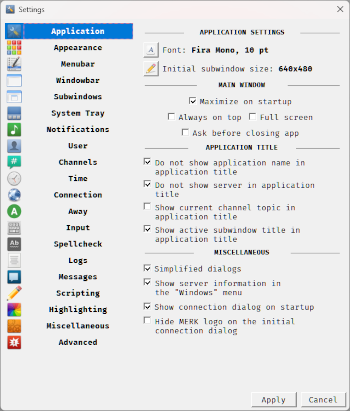
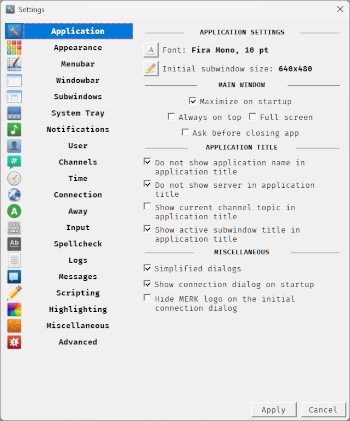
Tweaks to the settings dialog

diff --git a/README.html b/README.html
@@ -1,4 +1,4 @@
-<h1>MERK 0.050.710</h1>
+<h1>MERK 0.050.711</h1>
 
 <p><a href="https://github.com/nutjob-laboratories/merk">Official source code repository</a></p>
 <h1 id="table-of-contents">Table of contents</h1>
@@ -14,7 +14,7 @@
 <li><a href="#does-merk-need-any-help">Does MERK need any help?</a></li>
 </ul>
 <h1 id="summary">Summary</h1>
-<p><strong>MERK</strong> is a graphical <a href="https://www.gnu.org/licenses/gpl-3.0.en.html">open source</a> <a href="https://en.wikipedia.org/wiki/Internet_Relay_Chat">Internet relay chat</a> client. The current development version is <strong>0.050.710</strong>. It uses a <a href="https://en.wikipedia.org/wiki/Multiple-document_interface">multiple-document interface</a>, much like the popular Windows IRC client <a href="https://www.mirc.com/">mIRC</a>.  <strong>MERK</strong> is written in Python 3, using the <a href="https://pypi.org/project/PyQt5/">PyQt5</a> and <a href="https://twistedmatrix.com/trac/">Twisted</a> libraries, and runs on both Windows and Linux. <strong>MERK</strong> is updated frequently with new features and bugfixes.</p>
+<p><strong>MERK</strong> is a graphical <a href="https://www.gnu.org/licenses/gpl-3.0.en.html">open source</a> <a href="https://en.wikipedia.org/wiki/Internet_Relay_Chat">Internet relay chat</a> client. The current development version is <strong>0.050.711</strong>. It uses a <a href="https://en.wikipedia.org/wiki/Multiple-document_interface">multiple-document interface</a>, much like the popular Windows IRC client <a href="https://www.mirc.com/">mIRC</a>.  <strong>MERK</strong> is written in Python 3, using the <a href="https://pypi.org/project/PyQt5/">PyQt5</a> and <a href="https://twistedmatrix.com/trac/">Twisted</a> libraries, and runs on both Windows and Linux. <strong>MERK</strong> is updated frequently with new features and bugfixes.</p>
 <p><strong>MERK</strong> is still in development, but it works, and can be used for most IRC activities.</p>
 <p>Join me on the official <strong>MERK</strong> IRC channel, <strong>#merk</strong> on the Libera Chat network! Connect to  Libera in the client as one of the built-in server suggestions, or at <strong>irc.libera.chat</strong>, port <strong>6667</strong> (you can also connect via SSL on port <strong>6697</strong>). Honestly, I work a lot, so I&#39;m almost always idle, but I pop in and chat a few times a day!</p>
 <h1 id="making-merk-portable-on-windows">Making MERK Portable on Windows</h1>

diff --git a/merk/resources/README.html b/merk/resources/README.html
@@ -1,4 +1,4 @@
-<h1>MERK 0.050.710</h1>
+<h1>MERK 0.050.711</h1>
 
 <p><a href="https://github.com/nutjob-laboratories/merk">Official source code repository</a></p>
 <h1 id="table-of-contents">Table of contents</h1>
@@ -14,7 +14,7 @@
 <li><a href="#does-merk-need-any-help">Does MERK need any help?</a></li>
 </ul>
 <h1 id="summary">Summary</h1>
-<p><strong>MERK</strong> is a graphical <a href="https://www.gnu.org/licenses/gpl-3.0.en.html">open source</a> <a href="https://en.wikipedia.org/wiki/Internet_Relay_Chat">Internet relay chat</a> client. The current development version is <strong>0.050.710</strong>. It uses a <a href="https://en.wikipedia.org/wiki/Multiple-document_interface">multiple-document interface</a>, much like the popular Windows IRC client <a href="https://www.mirc.com/">mIRC</a>.  <strong>MERK</strong> is written in Python 3, using the <a href="https://pypi.org/project/PyQt5/">PyQt5</a> and <a href="https://twistedmatrix.com/trac/">Twisted</a> libraries, and runs on both Windows and Linux. <strong>MERK</strong> is updated frequently with new features and bugfixes.</p>
+<p><strong>MERK</strong> is a graphical <a href="https://www.gnu.org/licenses/gpl-3.0.en.html">open source</a> <a href="https://en.wikipedia.org/wiki/Internet_Relay_Chat">Internet relay chat</a> client. The current development version is <strong>0.050.711</strong>. It uses a <a href="https://en.wikipedia.org/wiki/Multiple-document_interface">multiple-document interface</a>, much like the popular Windows IRC client <a href="https://www.mirc.com/">mIRC</a>.  <strong>MERK</strong> is written in Python 3, using the <a href="https://pypi.org/project/PyQt5/">PyQt5</a> and <a href="https://twistedmatrix.com/trac/">Twisted</a> libraries, and runs on both Windows and Linux. <strong>MERK</strong> is updated frequently with new features and bugfixes.</p>
 <p><strong>MERK</strong> is still in development, but it works, and can be used for most IRC activities.</p>
 <p>Join me on the official <strong>MERK</strong> IRC channel, <strong>#merk</strong> on the Libera Chat network! Connect to  Libera in the client as one of the built-in server suggestions, or at <strong>irc.libera.chat</strong>, port <strong>6667</strong> (you can also connect via SSL on port <strong>6697</strong>). Honestly, I work a lot, so I&#39;m almost always idle, but I pop in and chat a few times a day!</p>
 <h1 id="making-merk-portable-on-windows">Making MERK Portable on Windows</h1>

diff --git a/merk/dialog/settings.py b/merk/dialog/settings.py
@@ -1583,12 +1583,6 @@ class Dialog(QDialog):
 		if config.ASK_BEFORE_CLOSE: self.askBeforeExit.setChecked(True)
 		self.askBeforeExit.stateChanged.connect(self.changedSetting)
 
-		self.showServerInfo = QCheckBox(f"Show server information in the\n\"{config.MAIN_MENU_WINDOWS_NAME}\" menu",self)
-		if config.SHOW_SERVER_INFO_IN_WINDOWS_MENU: self.showServerInfo.setChecked(True)
-		self.showServerInfo.stateChanged.connect(self.changedSetting)
-
-		self.showServerInfo.setStyleSheet("QCheckBox { text-align: left top; } QCheckBox::indicator { subcontrol-origin: padding; subcontrol-position: left top; }")
-
 		self.noAppNameTitle = QCheckBox("Do not show application name in\napplication title",self)
 		if config.DO_NOT_SHOW_APPLICATION_NAME_IN_TITLE: self.noAppNameTitle.setChecked(True)
 		self.noAppNameTitle.stateChanged.connect(self.changedSetting)
@@ -1622,11 +1616,6 @@ class Dialog(QDialog):
 		self.showChatInTitle.stateChanged.connect(self.changedSetting)
 		self.showChatInTitle.setStyleSheet("QCheckBox { text-align: left top; } QCheckBox::indicator { subcontrol-origin: padding; subcontrol-position: left top; }")
 
-		self.showLogsInWindows = QCheckBox(f"Show network log option in the\n\"{config.MAIN_MENU_WINDOWS_NAME}\" menu",self)
-		if config.SHOW_LOGS_IN_WINDOWS_MENU: self.showLogsInWindows.setChecked(True)
-		self.showLogsInWindows.stateChanged.connect(self.changedSetting)
-		self.showLogsInWindows.setStyleSheet("QCheckBox { text-align: left top; } QCheckBox::indicator { subcontrol-origin: padding; subcontrol-position: left top; }")
-
 		screenLayout2 = QHBoxLayout()
 		screenLayout2.addStretch()
 		screenLayout2.addWidget(self.alwaysOnTop)
@@ -1658,8 +1647,6 @@ class Dialog(QDialog):
 		applicationLayout.addWidget(self.showChatInTitle)
 		applicationLayout.addWidget(widgets.textSeparatorLabel(self,"<b>miscellaneous</b>"))
 		applicationLayout.addWidget(self.simpleConnect)
-		applicationLayout.addWidget(self.showServerInfo)
-		applicationLayout.addWidget(self.showLogsInWindows)
 		applicationLayout.addWidget(self.showConnect)
 		applicationLayout.addWidget(self.noConnectLogo)
 		applicationLayout.addStretch()
@@ -2019,6 +2006,22 @@ class Dialog(QDialog):
 		menu2Layout.addWidget(self.menubarTop)
 		menu2Layout.addStretch()
 
+		self.showChannelList = QCheckBox(f"Channel list options",self)
+		if config.SHOW_CHANNEL_LIST_IN_WINDOWS_MENU: self.showChannelList.setChecked(True)
+		self.showChannelList.stateChanged.connect(self.changedSetting)
+		
+		self.showLogsInWindows = QCheckBox(f"Network logs",self)
+		if config.SHOW_LOGS_IN_WINDOWS_MENU: self.showLogsInWindows.setChecked(True)
+		self.showLogsInWindows.stateChanged.connect(self.changedSetting)
+
+		self.showServerInfo = QCheckBox(f"Server information",self)
+		if config.SHOW_SERVER_INFO_IN_WINDOWS_MENU: self.showServerInfo.setChecked(True)
+		self.showServerInfo.stateChanged.connect(self.changedSetting)
+
+		menu3Layout = QHBoxLayout()
+		menu3Layout.addWidget(self.showChannelList)
+		menu3Layout.addWidget(self.showLogsInWindows)
+
 		menuLayout = QVBoxLayout()
 		menuLayout.addWidget(widgets.textSeparatorLabel(self,"<b>menubar settings</b>"))
 		menuLayout.addWidget(self.menubarDescription)
@@ -2027,7 +2030,9 @@ class Dialog(QDialog):
 		menuLayout.addLayout(justifyLayout)
 		menuLayout.addWidget(self.menubarBold)
 		menuLayout.addWidget(self.menubarMenu)
-		menuLayout.addWidget(QLabel(' '))
+		menuLayout.addWidget(widgets.textSeparatorLabel(self,f"<b>\"{config.MAIN_MENU_WINDOWS_NAME}\" menu includes...</b>"))
+		menuLayout.addLayout(menu3Layout)
+		menuLayout.addWidget(self.showServerInfo)
 		menuLayout.addWidget(widgets.textSeparatorLabel(self,"<b>menu display names</b>"))
 		menuLayout.addWidget(self.menuNameDescription)
 		menuLayout.addLayout(nameMenuEntries)
@@ -4398,11 +4403,6 @@ class Dialog(QDialog):
 		size_policy.setVerticalPolicy(QSizePolicy.Fixed)
 		quitBox.setSizePolicy(size_policy)
 
-		self.showChannelList = QCheckBox(f"Show channel list options in\nthe \"{config.MAIN_MENU_WINDOWS_NAME}\" menu",self)
-		if config.SHOW_CHANNEL_LIST_IN_WINDOWS_MENU: self.showChannelList.setChecked(True)
-		self.showChannelList.stateChanged.connect(self.changedSetting)
-		self.showChannelList.setStyleSheet("QCheckBox { text-align: left top; } QCheckBox::indicator { subcontrol-origin: padding; subcontrol-position: left top; }")
-
 		self.searchAllTerms = QCheckBox("Search for all terms in\nchannel list searches",self)
 		if config.SEARCH_ALL_TERMS_IN_CHANNEL_LIST: self.searchAllTerms.setChecked(True)
 		self.searchAllTerms.stateChanged.connect(self.changedSetting)
@@ -4422,7 +4422,6 @@ class Dialog(QDialog):
 		miscLayout.addLayout(escLayout)
 		miscLayout.addWidget(QLabel(' '))
 		miscLayout.addWidget(widgets.textSeparatorLabel(self,"<b>channel list settings</b>"))
-		miscLayout.addWidget(self.showChannelList)
 		miscLayout.addWidget(self.searchAllTerms)
 		miscLayout.addWidget(self.examineTopic)
 		miscLayout.addStretch()

diff --git a/merk/resources/version.py b/merk/resources/version.py
@@ -1,1 +1,1 @@
-APPLICATION_VERSION = "0.050.710"
+APPLICATION_VERSION = "0.050.711"

diff --git a/README.md b/README.md
@@ -3,7 +3,7 @@
   <b><big>Open Source IRC Client</big></b><br>
   <i>A multiple-document interface IRC client for Windows and Linux</i><br>
   <b><big>Current stable release: <a href="https://github.com/nutjob-laboratories/merk/releases/tag/0.050.700">MERK 0.050.700</a></big></b><br>
-  <b>Current development version: 0.050.710</b><br><br>
+  <b>Current development version: 0.050.711</b><br><br>
   <b><a href="https://gofund.me/ae062139">Help Fund MERK!</a></b><br>
 </p>
 
@@ -30,13 +30,13 @@ All files are packed in [ZIP archive files](https://en.wikipedia.org/wiki/ZIP_(f
 | :----:    | :----:    | :----:    |
 | User Guide |  PDF  | [MERK User Guide](./MERK_User_Guide.pdf)  |
 | Current Release |  -  | [MERK 0.050.700 Release](https://github.com/nutjob-laboratories/merk/releases/tag/0.050.700)  |
-| Zip Archive|  Cross-platform  | [Download MERK 0.050.710 (12.03 MB)](https://www.dropbox.com/scl/fi/pf9p7ltb3uufm5akjz7l0/merk-latest.zip?rlkey=3caodopybbcxr4p9grxygxzym&st=01zsuura&dl=1)  |
-| Zip Archive|  Windows EXE | [Download MERK 0.050.710 (48.86 MB)](https://www.dropbox.com/scl/fi/4w9ufyknzac24o06710bi/merk-windows-latest.zip?rlkey=zmir67l3klg8mw0omxayzmssc&st=vb69tsdi&dl=1)|
-|   Windows Installer|  Windows Setup | [Download MERK 0.050.710 (46.03 MB)](https://www.dropbox.com/scl/fi/0u1vcg5xuntzs2b16e01b/merk_setup.zip?rlkey=8avj1gyed3txz1nfj9ev41mmh&st=zlve4c1o&dl=1)|
+| Zip Archive|  Cross-platform  | [Download MERK 0.050.711 (12.03 MB)](https://www.dropbox.com/scl/fi/pf9p7ltb3uufm5akjz7l0/merk-latest.zip?rlkey=3caodopybbcxr4p9grxygxzym&st=01zsuura&dl=1)  |
+| Zip Archive|  Windows EXE | [Download MERK 0.050.711 (48.86 MB)](https://www.dropbox.com/scl/fi/4w9ufyknzac24o06710bi/merk-windows-latest.zip?rlkey=zmir67l3klg8mw0omxayzmssc&st=vb69tsdi&dl=1)|
+|   Windows Installer|  Windows Setup | [Download MERK 0.050.711 (46.03 MB)](https://www.dropbox.com/scl/fi/0u1vcg5xuntzs2b16e01b/merk_setup.zip?rlkey=8avj1gyed3txz1nfj9ev41mmh&st=zlve4c1o&dl=1)|
 
 # Summary
   
-**MERK** is a graphical [open source](https://www.gnu.org/licenses/gpl-3.0.en.html) [Internet relay chat](https://en.wikipedia.org/wiki/Internet_Relay_Chat) client. The current development version is **0.050.710**. It uses a [multiple-document interface](https://en.wikipedia.org/wiki/Multiple-document_interface), much like the popular Windows IRC client [mIRC](https://www.mirc.com/).  **MERK** is written in Python 3, using the [PyQt5](https://pypi.org/project/PyQt5/) and [Twisted](https://twistedmatrix.com/trac/) libraries, and runs on both Windows and Linux. **MERK** is updated frequently with new features and bugfixes.
+**MERK** is a graphical [open source](https://www.gnu.org/licenses/gpl-3.0.en.html) [Internet relay chat](https://en.wikipedia.org/wiki/Internet_Relay_Chat) client. The current development version is **0.050.711**. It uses a [multiple-document interface](https://en.wikipedia.org/wiki/Multiple-document_interface), much like the popular Windows IRC client [mIRC](https://www.mirc.com/).  **MERK** is written in Python 3, using the [PyQt5](https://pypi.org/project/PyQt5/) and [Twisted](https://twistedmatrix.com/trac/) libraries, and runs on both Windows and Linux. **MERK** is updated frequently with new features and bugfixes.
 
 **MERK** is still in development, but it works, and can be used for most IRC activities. [The current stable release of **MERK** is version 0.050.700](https://github.com/nutjob-laboratories/merk/releases/tag/0.050.700). **MERK** has a user guide, which can be [viewed here](./MERK_User_Guide.pdf).
 
@@ -118,7 +118,7 @@ There are three libraries that comes bundled with **MERK**:
 
 # Screenshots
 
-<p><small><i>Screenshots may not reflect the current release (0.050.700), and may reflect the current development version (0.050.710). More screenshots are in the <a href="./MERK_User_Guide.pdf">MERK User Guide</a>.</i></small></p>
+<p><small><i>Screenshots may not reflect the current release (0.050.700), and may reflect the current development version (0.050.711). More screenshots are in the <a href="./MERK_User_Guide.pdf">MERK User Guide</a>.</i></small></p>
 
 <p align="center">
 <center><a href="./graphics/screenshot_big.png"><img src="./graphics/screenshot1.png"></a></center></br>
